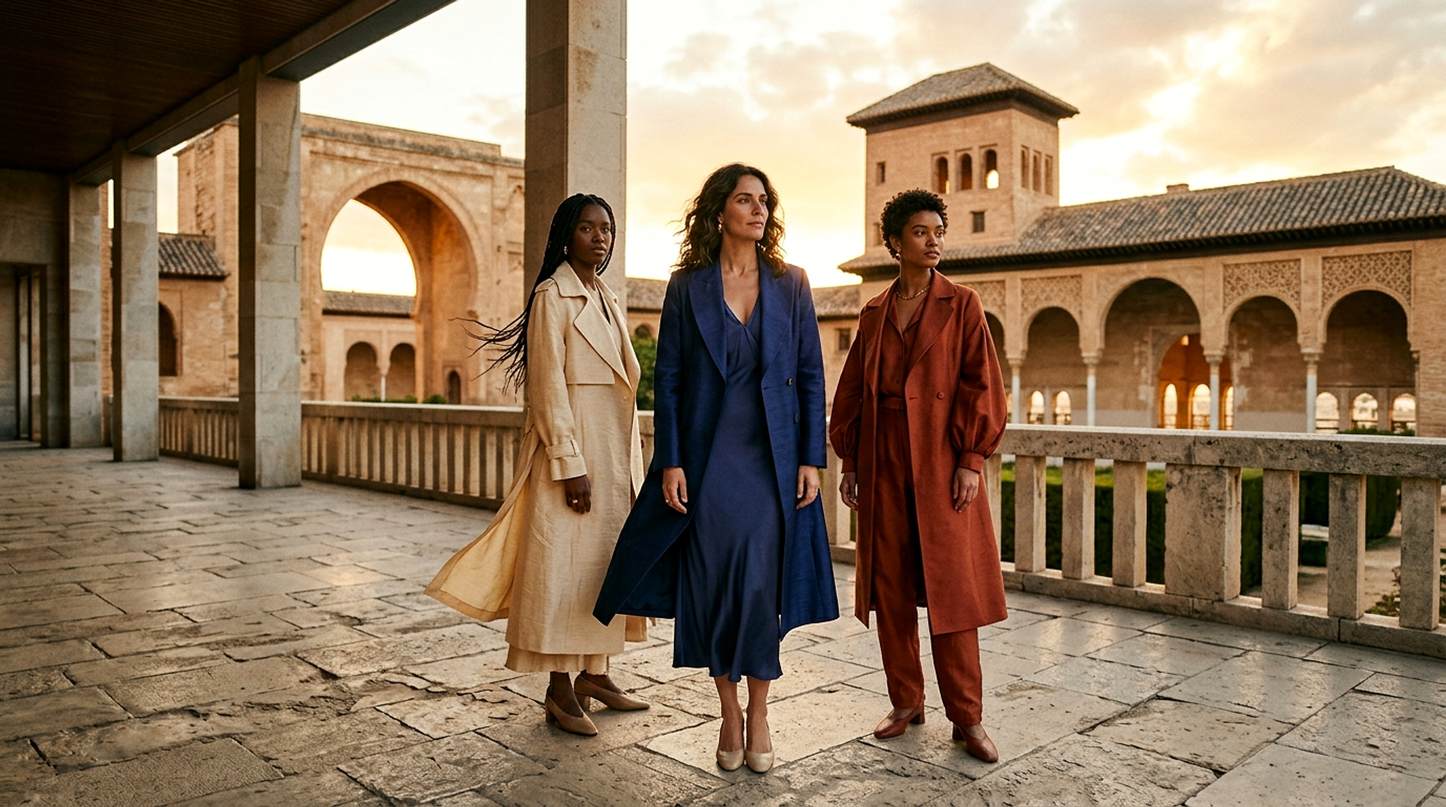
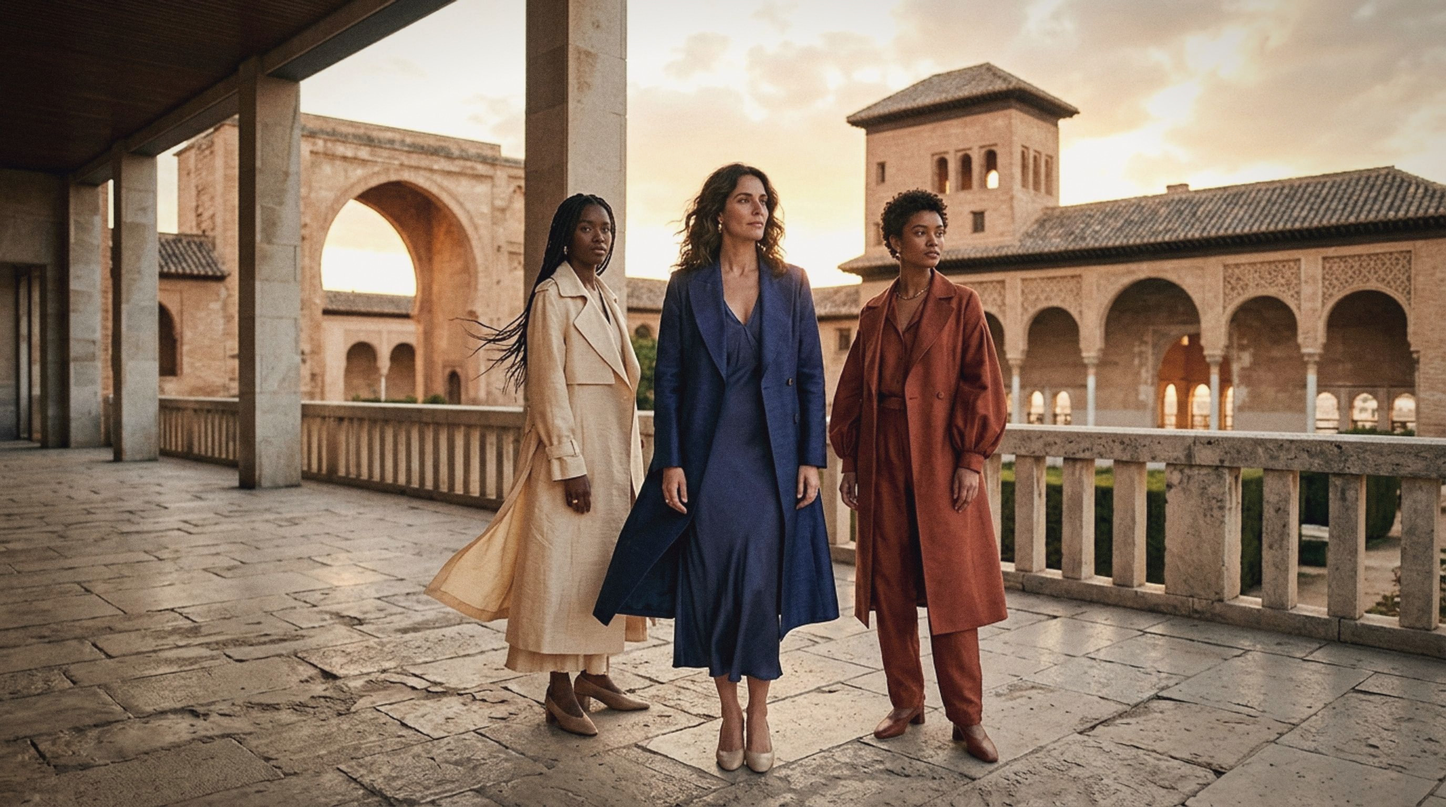
Film-grade every site photograph for a consistent photographic finish
Extend the Edit 02 treatment to all nine photographs, in place, so the
whole house reads as one shoot rather than a set of glossy renders:
saturation pulled to 0.84, a matte film toe with slightly cool shadows
and warm highlights, a 0.6px softening, light monochrome soft-light
grain and a gentle vignette.

The separate edit-02-pavilion.jpg is now redundant; the interlude points
back at hero-editorial-dresscode.jpg and the copy is removed.

Claude-Session: https://claude.ai/code/session_016pNJu5KpgdjhQGDEatsigc

diff --git a/src/components/editorial/HomeCampaignInterlude.tsx b/src/components/editorial/HomeCampaignInterlude.tsx
@@ -93,7 +93,7 @@ export const HomeCampaignInterlude: React.FC = () => {
         <div ref={frameRef} className={styles.frame} data-cursor="explore">
           <div ref={imageRef} className={styles.imageWrap}>
             <Image
-              src="/images/edit-02-pavilion.jpg"
+              src="/images/hero-editorial-dresscode.jpg"
               alt="Two NAVA looks beneath sandstone arches at golden hour: an ivory raw-silk trench and a charcoal wool jacket embroidered in tonal thread"
               fill
               quality={90}
